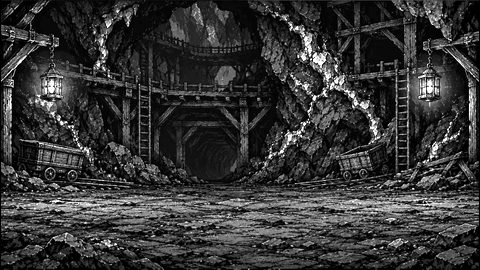
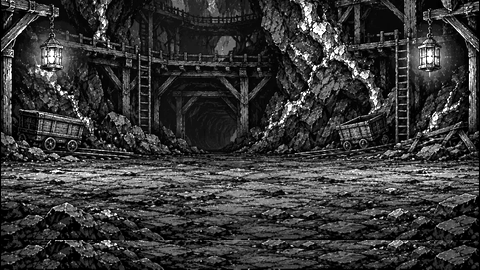
0.4.37 (prueba): los enemigos de La Veta apoyan en el piso

diff --git a/js/juego.js b/js/juego.js
@@ -1201,7 +1201,7 @@ function dibujarCierre(c, k = clamp(Tr.t / Tr.cierre, 0, 1), rojo = Tr.rojo) {
 // Fondo pintado de cada zona; si no cargó, el procedural
 // por ahora todos los pisos pelean en el mismo escenario, pasado por la paleta de cada uno
 const FONDOS = { crypt: Object.assign(new Image(), { src: 'interfaz/batalla/cripta.png' }), castle: Object.assign(new Image(), { src: 'interfaz/batalla/salones.png' }), engrave: Object.assign(new Image(), { src: 'interfaz/batalla/fondo.png' }), veta: Object.assign(new Image(), { src: 'interfaz/batalla/veta.png' }) };
-const ANTORCHAS = { crypt: [[25, 77], [454, 77]], castle: [[19, 48], [458, 48]], engrave: [[20, 54], [463, 54]], veta: [[48, 86], [430, 86]] };
+const ANTORCHAS = { crypt: [[25, 77], [454, 77]], castle: [[19, 48], [458, 48]], engrave: [[20, 54], [463, 54]], veta: [[50, 54], [430, 54]] };
 // Dibujos propios de enemigos (campo "imagen" de enemigos.json); los demás usan el sprite del juego base
 const IMG_ENEMIGOS = {};
 for (const d of Object.values(D.enemigos)) if (d.imagen) IMG_ENEMIGOS[d.imagen] = Object.assign(new Image(), { src: tr('interfaz/enemigos/{0}.png', d.imagen) });

diff --git a/index.html b/index.html
@@ -22,7 +22,7 @@
     <img class="tfondo" src="interfaz/intro/velombra_apagada.png" alt="">
     <img class="t1" src="interfaz/logo.png" alt="The Last Flame">
     <div class="t2" data-tr="Un descenso a la Cripta de Vel’Ombra">Un descenso a la Cripta de Vel’Ombra</div>
-    <div class="tver">v0.4.36<span id="tPrueba"></span></div>
+    <div class="tver">v0.4.37<span id="tPrueba"></span></div>
     <div class="t4" data-kb="WASD / flechas: moverse · Q E: girar · Enter: interactuar · I: inventario · P: poción · O: aceite · F11: pantalla completa">WASD / flechas: moverse · Q E: girar · Enter: interactuar · I: inventario · P: poción · O: aceite · F11: pantalla completa</div>
   </div>
 

diff --git a/ROADMAP.md b/ROADMAP.md
@@ -2,7 +2,7 @@
 
 El camino del juego es la expedición de grupo. El plan del juego anterior está en `juego_viejo/ROADMAP.md`.
 
-**Versión actual: 0.4.36.** Lo próximo: 0.5.0.
+**Versión actual: 0.4.37.** Lo próximo: 0.5.0.
 
 ## Cómo se numeran las versiones
 
@@ -113,6 +113,10 @@ La idea que une todo es una regla de las Guardianas: "quien le pida algo va a re
 - **Título:** el logo "The Last Flame" no cambia con el idioma.
 
 ## Historial
+
+### 0.4.37
+
+- La Veta: los enemigos ya apoyan en el piso del escenario de batalla.
 
 ### 0.4.36
 
